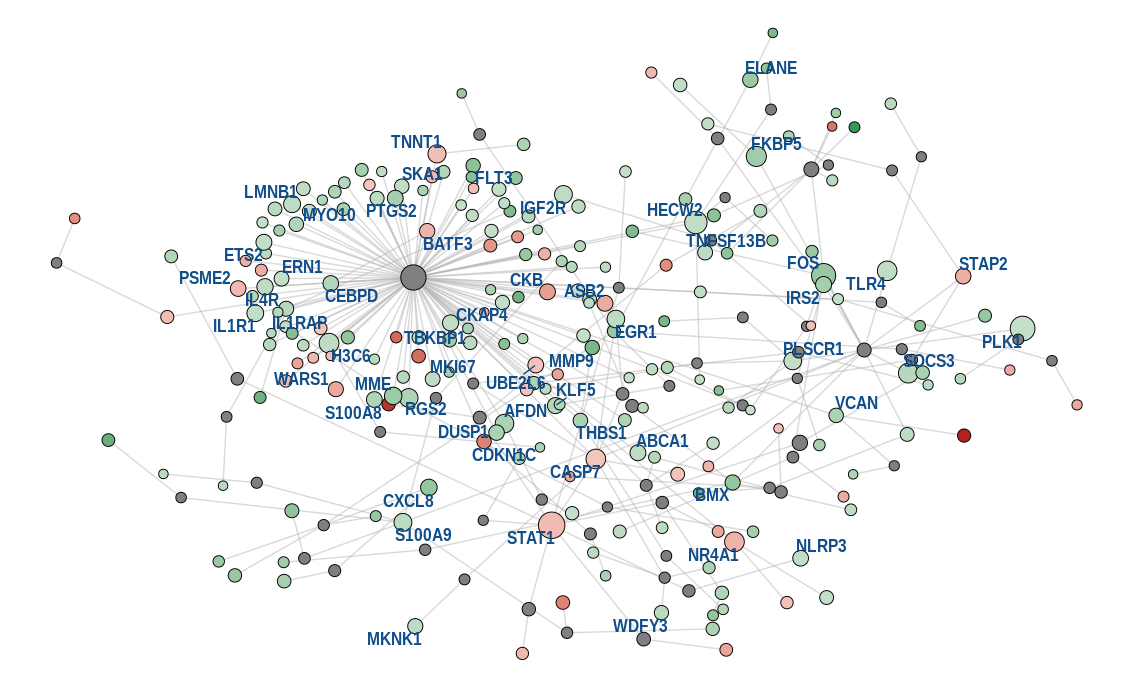
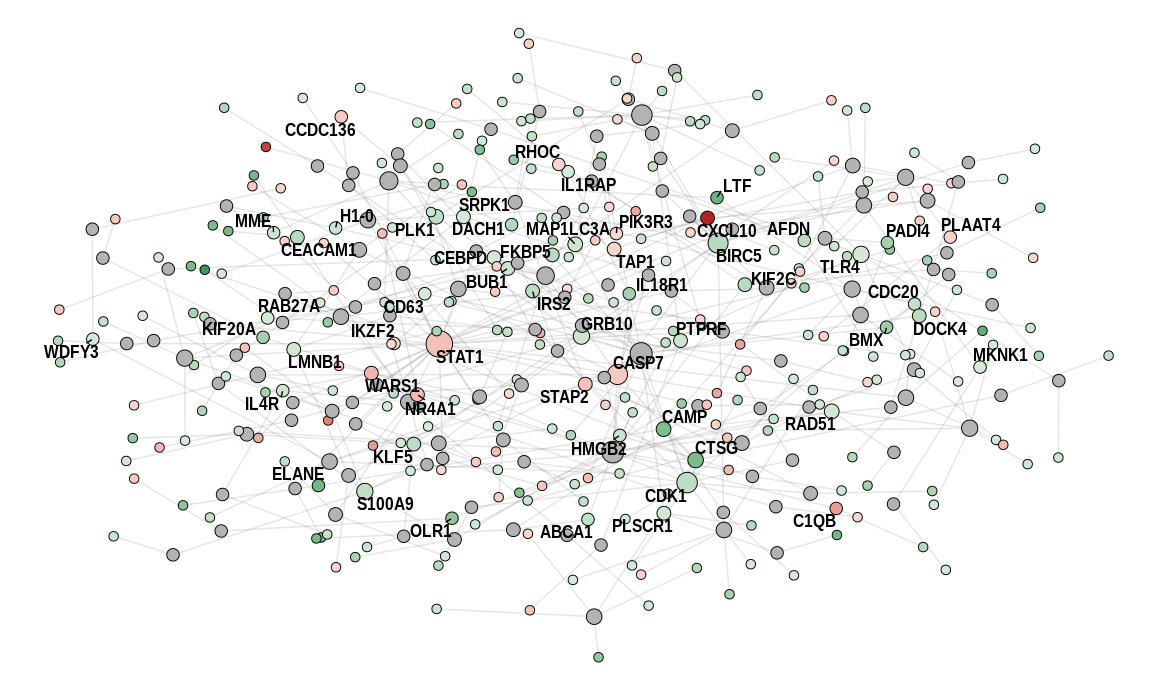
Updated example code/network in README

diff --git a/README.md b/README.md
@@ -36,55 +36,42 @@ BiocManager::install("biomaRt")
 # submit an issue at the Github page: 
 # https://github.com/travis-m-blimkie/networker/issues
 
-> fetch_ppi_data()
-# Downloading data from InnateDB...
-# Retrieving gene mapping data from biomaRt...                                                      
-# Done, saving InnateDB PPI data to:
-# /home/networker/innateDB_ppi_exp_data_mapped.Rds
-
-> innatedb <- readRDS("innateDB_ppi_exp_data_mapped.Rds")
 > ex_genes <- read_csv("ex_de_genes.csv")
-
 > glimpse(ex_genes)
-# Rows: 335
+# Rows: 450
 # Columns: 9
-# $ ensembl_gene_id <chr> "ENSG00000003147", "ENSG00000005381", "ENSG0000000…
-# $ hgnc_symbol     <chr> "ICA1", "MPO", "PGLYRP1", "MMP25", "ANLN", "LTF", …
-# $ entrez_gene_id  <dbl> 3382, 4353, 8993, 64386, 54443, 4057, 6556, 3082, …
-# $ baseMean        <dbl> 29.63805, 332.51245, 310.38400, 3654.71160, 22.318…
-# $ log2FoldChange  <dbl> -0.6631473, -1.0411931, -0.6977906, -0.5962315, -0…
-# $ lfcSE           <dbl> 0.12867106, 0.28542343, 0.18071716, 0.12173940, 0.…
-# $ stat            <dbl> -5.153818, -3.647889, -3.861231, -4.897605, -3.332…
-# $ pvalue          <dbl> 2.552353e-07, 2.644034e-04, 1.128174e-04, 9.701195…
-# $ padj            <dbl> 1.010786e-05, 2.199332e-03, 1.115054e-03, 2.965279…
+# $ ensembl_gene_id <chr> "ENSG00000002549", "ENSG00000003147", "ENSG000000053…
+# $ hgnc_symbol     <chr> "LAP3", "ICA1", "MPO", "PDK2", "PGLYRP1", "MMP25", "…
+# $ entrez_gene_id  <dbl> 51056, 3382, 4353, 5164, 8993, 64386, 51099, 54443, …
+# $ baseMean        <dbl> 490.07793, 29.63805, 332.51245, 108.59034, 310.38400…
+# $ log2FoldChange  <dbl> 0.7846097, -1.1009100, -1.8190114, 0.5872697, -1.261…
+# $ lfcSE           <dbl> 0.2034562, 0.1816788, 0.3962989, 0.2040399, 0.248676…
+# $ stat            <dbl> 3.856406, -6.059649, -4.589999, 2.878210, -5.074263,…
+# $ pvalue          <dbl> 1.150662e-04, 1.364186e-09, 4.432490e-06, 3.999387e-…
+# $ padj            <dbl> 3.143249e-03, 7.049566e-07, 3.556729e-04, 3.223212e-…
 
 > ex_network <- build_network(
   df       = ex_genes,
   col      = "ensembl_gene_id",
   order    = "min_steiner",
-  ppi_data = innatedb
+  ppi_data = innatedb_exp
 )
 # Finding interactions...
 # Creating network...
 # Performing 'Steiner' minimum network trimming...
 # Done.
 
-> plot_network(
-  network      = ex_network,
-  layout       = "force_atlas",
+plot_network(
+  network      = ex_net,
   fill_column  = log2FoldChange,
-  edge_alpha   = 0.5,
-  edge_colour  = "grey70",
+  layout       = "force_atlas",
   label        = TRUE,
   label_column = hgnc_symbol,
-  label_filter = 40,
-  label_size   = 5,
-  label_colour = "dodgerblue4",
-  label_face   = "bold"
+  label_filter = 1
 )
 # Calculating Force Atlas node positions...
 # Warning message:
-# Removed 221 rows containing missing values (geom_text_repel).
+# Removed 364 rows containing missing values (geom_text_repel).
 ```
 
 ![](man/figures/network_example.png)
